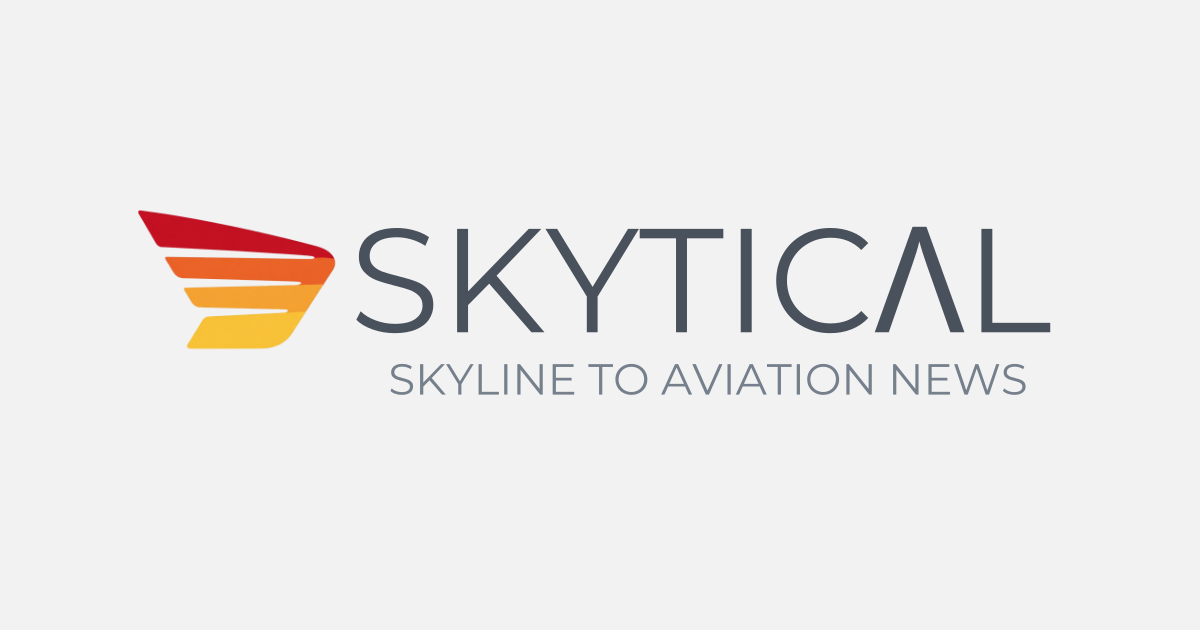
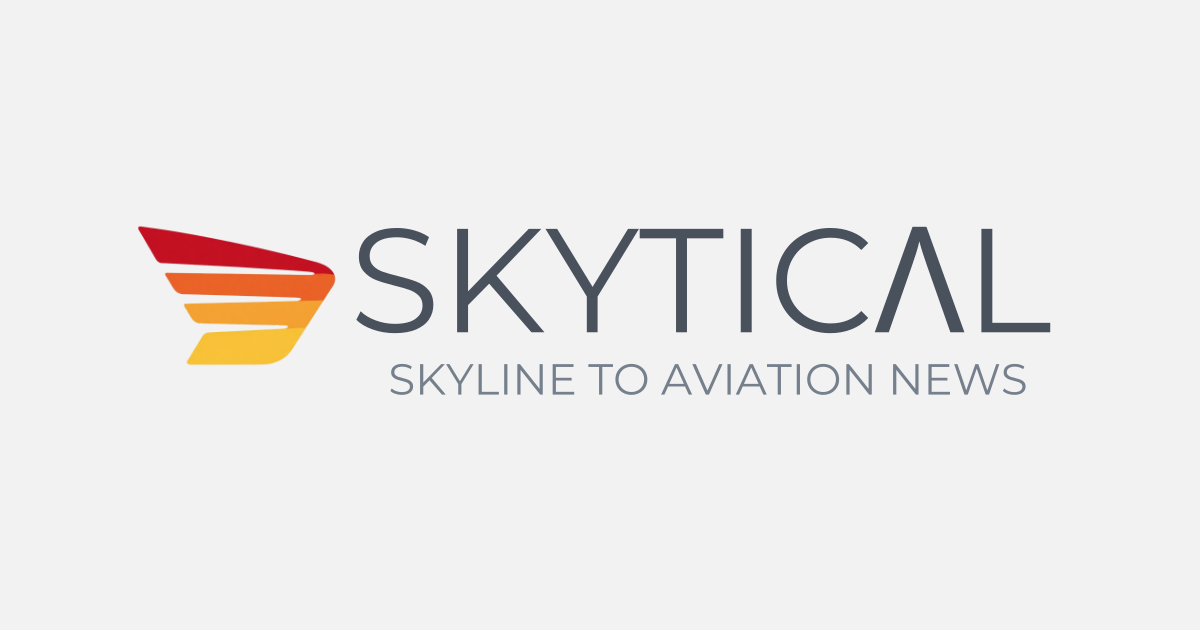
fix(brand): align red wing tops with the wordmark

Changed region(s): [[0.0925, 0.3317, 0.2775, 0.6032]]

diff --git a/tests/test_logo_assets.py b/tests/test_logo_assets.py
@@ -37,9 +37,9 @@ def main() -> None:
 
     approved_assets = {
[6 lines of base64/hex data omitted]
     }
     for path, approved_hash in approved_assets.items():
         payload = path.read_bytes()
@@ -50,8 +50,8 @@ def main() -> None:
     assert 'viewBox="250 660 1000 220"' in logo
     assert 'viewBox="250 650 250 220"' in mark
     for asset, transform, clipping in (
-        (logo, "matrix(0.95, 0, 0, 0.95, 254.925, 614.3)",
-         "M 254.925 614.3 L 522.825 614.3 L 522.825 853.7 L 254.925 853.7 Z"),
+        (logo, "matrix(0.95, 0, 0, 0.95, 254.925, 630.3)",
+         "M 254.925 630.3 L 522.825 630.3 L 522.825 869.7 L 254.925 869.7 Z"),
         (mark, "matrix(0.95, 0, 0, 0.95, 237.925, 645.3)",
          "M 237.925 645.3 L 505.825 645.3 L 505.825 884.7 L 237.925 884.7 Z"),
     ):
@@ -83,9 +83,8 @@ def main() -> None:
     wing_points = [(x, y) for y, row in enumerate(pixels["wing"])
                    for x, cell in enumerate(row) if cell != "."]
     wing_top = min(y for x, y in wing_points) + lockup["wingOrigin"][1]
-    wing_bottom = max(y for x, y in wing_points) + lockup["wingOrigin"][1]
-    text_center = lockup["wordmarkOrigin"][1] + (7 * 3 - 1) / 2
-    assert abs((wing_top + wing_bottom) / 2 - text_center) <= 1
+    red_top = min(y for y, row in enumerate(pixels["wing"]) if "R" in row) + lockup["wingOrigin"][1]
+    assert wing_top == red_top == lockup["wordmarkOrigin"][1]
 
     assert png_dimensions(social_path) == (1200, 630)
     assert home.count(f'/assets/skytical-logo.svg?v={build.ASSET_VERSION}') >= 2

diff --git a/docs/brand/generate_classic_logo.py b/docs/brand/generate_classic_logo.py
@@ -11,8 +11,8 @@ import re
 import subprocess
 
 ROOT = Path(__file__).resolve().parents[2]
-WING_TRANSFORM = "matrix(0.95, 0, 0, 0.95, 254.925, 614.3)"
-WING_CLIP = "M 254.925 614.3 L 522.825 614.3 L 522.825 853.7 L 254.925 853.7 Z"
+WING_TRANSFORM = "matrix(0.95, 0, 0, 0.95, 254.925, 630.3)"
+WING_CLIP = "M 254.925 630.3 L 522.825 630.3 L 522.825 869.7 L 254.925 869.7 Z"
 
 
 def logo_svg() -> str:

diff --git a/docs/brand/SKYTICAL-LOGO-SPEC.md b/docs/brand/SKYTICAL-LOGO-SPEC.md
@@ -41,18 +41,18 @@
 
 目前核准輸出的 SHA-256：
 
[5 lines of base64/hex data omitted]
 
 橫式 Logo 與翼標的產生規則：
 
 1. 從母版移除 `#FFFFFF` 與 `#F3F2F2` 的兩個全畫布 `<rect>`，使背景透明。
-2. 橫式 Logo 的翼形遮罩與彩色圖層均使用 `matrix(0.95, 0, 0, 0.95, 254.925, 614.3)`；對應裁切路徑為 `M 254.925 614.3 L 522.825 614.3 L 522.825 853.7 L 254.925 853.7 Z`。2026-10-19 依使用者要求，將翼標向右移 `17px`、向上移 `31px`，縮短字標間距並對齊主字標中心。縮放比例維持不變，不改變圖示本身的長寬比、造型或色彩。
+2. 橫式 Logo 的翼形遮罩與彩色圖層均使用 `matrix(0.95, 0, 0, 0.95, 254.925, 630.3)`；對應裁切路徑為 `M 254.925 630.3 L 522.825 630.3 L 522.825 869.7 L 254.925 869.7 Z`。2026-10-19 依使用者要求，將翼標向右移 `17px`、向上移 `15px`，縮短字標間距，讓翼標最上方紅色邊緣與主字標頂端水平對齊。縮放比例維持不變，不改變圖示本身的長寬比、造型或色彩。
    獨立翼標 `skytical-mark.svg` 沒有相鄰文字，沿用 `matrix(0.95, 0, 0, 0.95, 237.925, 645.3)` 與裁切路徑 `M 237.925 645.3 L 505.825 645.3 L 505.825 884.7 L 237.925 884.7 Z`，保持其獨立圖示置中方式。
 3. 依上表修改根 `<svg>` 的輸出尺寸與 `viewBox`；主字標與標語的路徑、位置及比例不得變更。
 
-以 `1000 × 220` 橫式 Logo、半透明邊緣不計入時驗證，翼形可視範圍為 `x=38–234`、`y=6–143`，垂直中心為 `74.5px`；主字標範圍為 `y=22–127`，垂直中心同為 `74.5px`。翼形與主字標的水平留白由約 `39px` 縮短為 `22px`；標語仍位於原座標。對齊的是主字標，而非主字標加標語的整體中心。
+以 `1000 × 220` 橫式 Logo、半透明邊緣不計入時驗證，翼形可視範圍為 `x=38–234`、`y=22–159`；主字標範圍為 `y=22–127`。翼標最上方紅色邊緣與主字標頂端同為 `y=22`。翼形與主字標的水平留白由約 `39px` 縮短為 `22px`；標語仍位於原座標。以紅色翼標頂端與主字標頂端對齊，不使用垂直中心對齊。
 
 社群分享圖使用 `#F3F2F2` 的 `1200 × 630` 畫布，將透明橫式 Logo 以 `1000 × 220` 尺寸置於 `(100, 205)`。
 
@@ -70,7 +70,7 @@ python docs/brand/generate_classic_logo.py --social
 
 - `SKYTICΛL` 與標語拼字完全一致，`Λ` 不得變成 `A`。
 - 三層機翼順序固定為紅、橘、金；不得反轉、混色或套用漸層、陰影與濾鏡。
-- 橫式 Logo 的翼形圖示必須與主字標的垂直中線對齊，誤差不得超過 `1px`；標語維持原座標。
+- 橫式 Logo 的紅色翼標頂端必須與主字標頂端水平對齊，誤差不得超過 `1px`；標語維持原座標。
 - 頁首、頁尾、favicon、結構化資料與社群分享圖均來自同一母版。
 - 橫式與翼標 SVG 背景透明，不含白色或灰色背景矩形。
 - 桌機與手機版均維持原有容器尺寸，不因母版的方形畫布產生額外空白。

diff --git a/docs/brand/SKYTICAL-8BIT-LOGO.md b/docs/brand/SKYTICAL-8BIT-LOGO.md
@@ -35,7 +35,7 @@
 
 `docs/brand/SKYTICAL-8BIT-master.json` 保存翼形每一格的顏色、手工像素字形、精確拼字，以及來源母版的 SHA-256。這是像素版的重建資料，不取代正式品牌母版。
 
-2026-10-19 的視覺平衡修正記錄於 `lockup`：翼標原點由 `(0, 8)` 上移至 `(0, 1)`，字標與標語由 `x=58` 左移至 `x=50`，畫布寬度由 `220` 收至 `212`。翼標可視中心為 `y=16.5`，與主字標中心一致；兩者留白由 `16` 格縮至 `8` 格。獨立翼標不受橫式排版調整影響。
+2026-10-19 的視覺平衡修正記錄於 `lockup`：翼標原點由 `(0, 8)` 調整至 `(0, 4)`，字標與標語由 `x=58` 左移至 `x=50`，畫布寬度由 `220` 收至 `212`。紅色翼標與主字標頂端同為 `y=6`，水平對齊；兩者留白由 `16` 格縮至 `8` 格。獨立翼標不受橫式排版調整影響。
 
 在 repository 根目錄執行：
 
